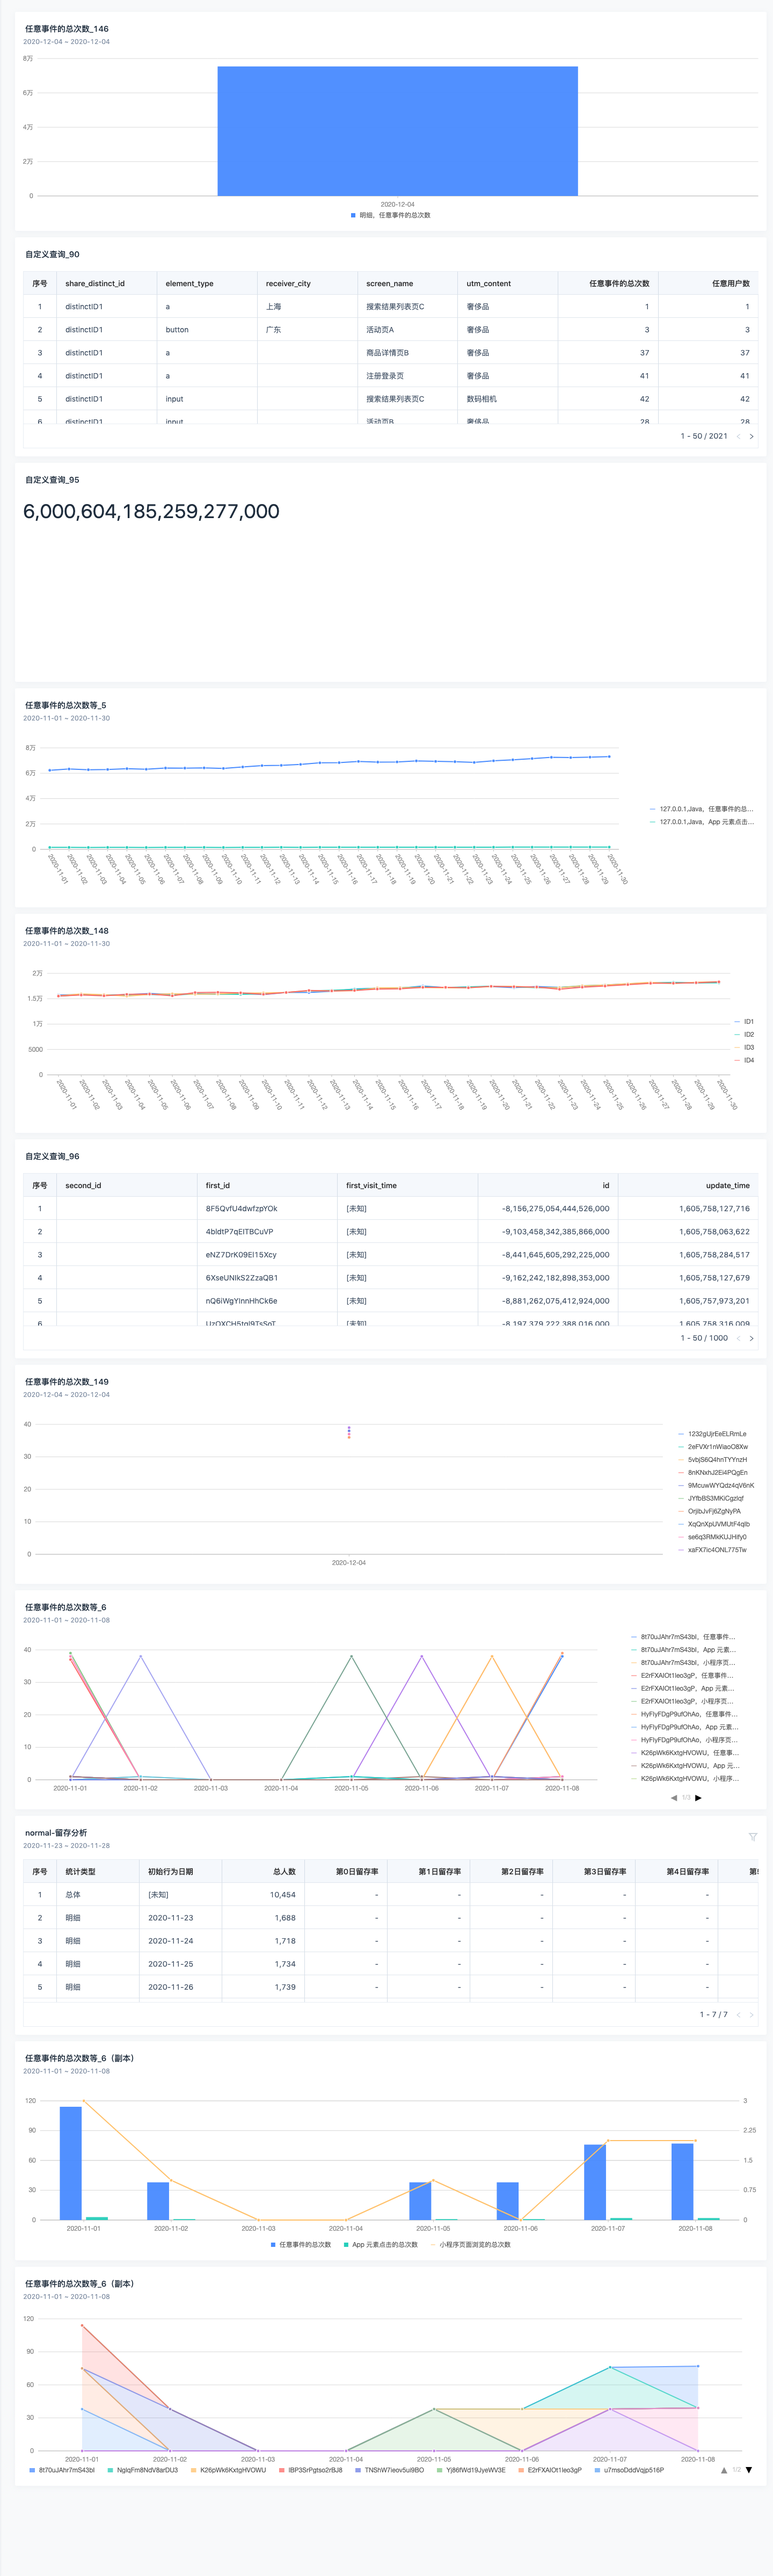
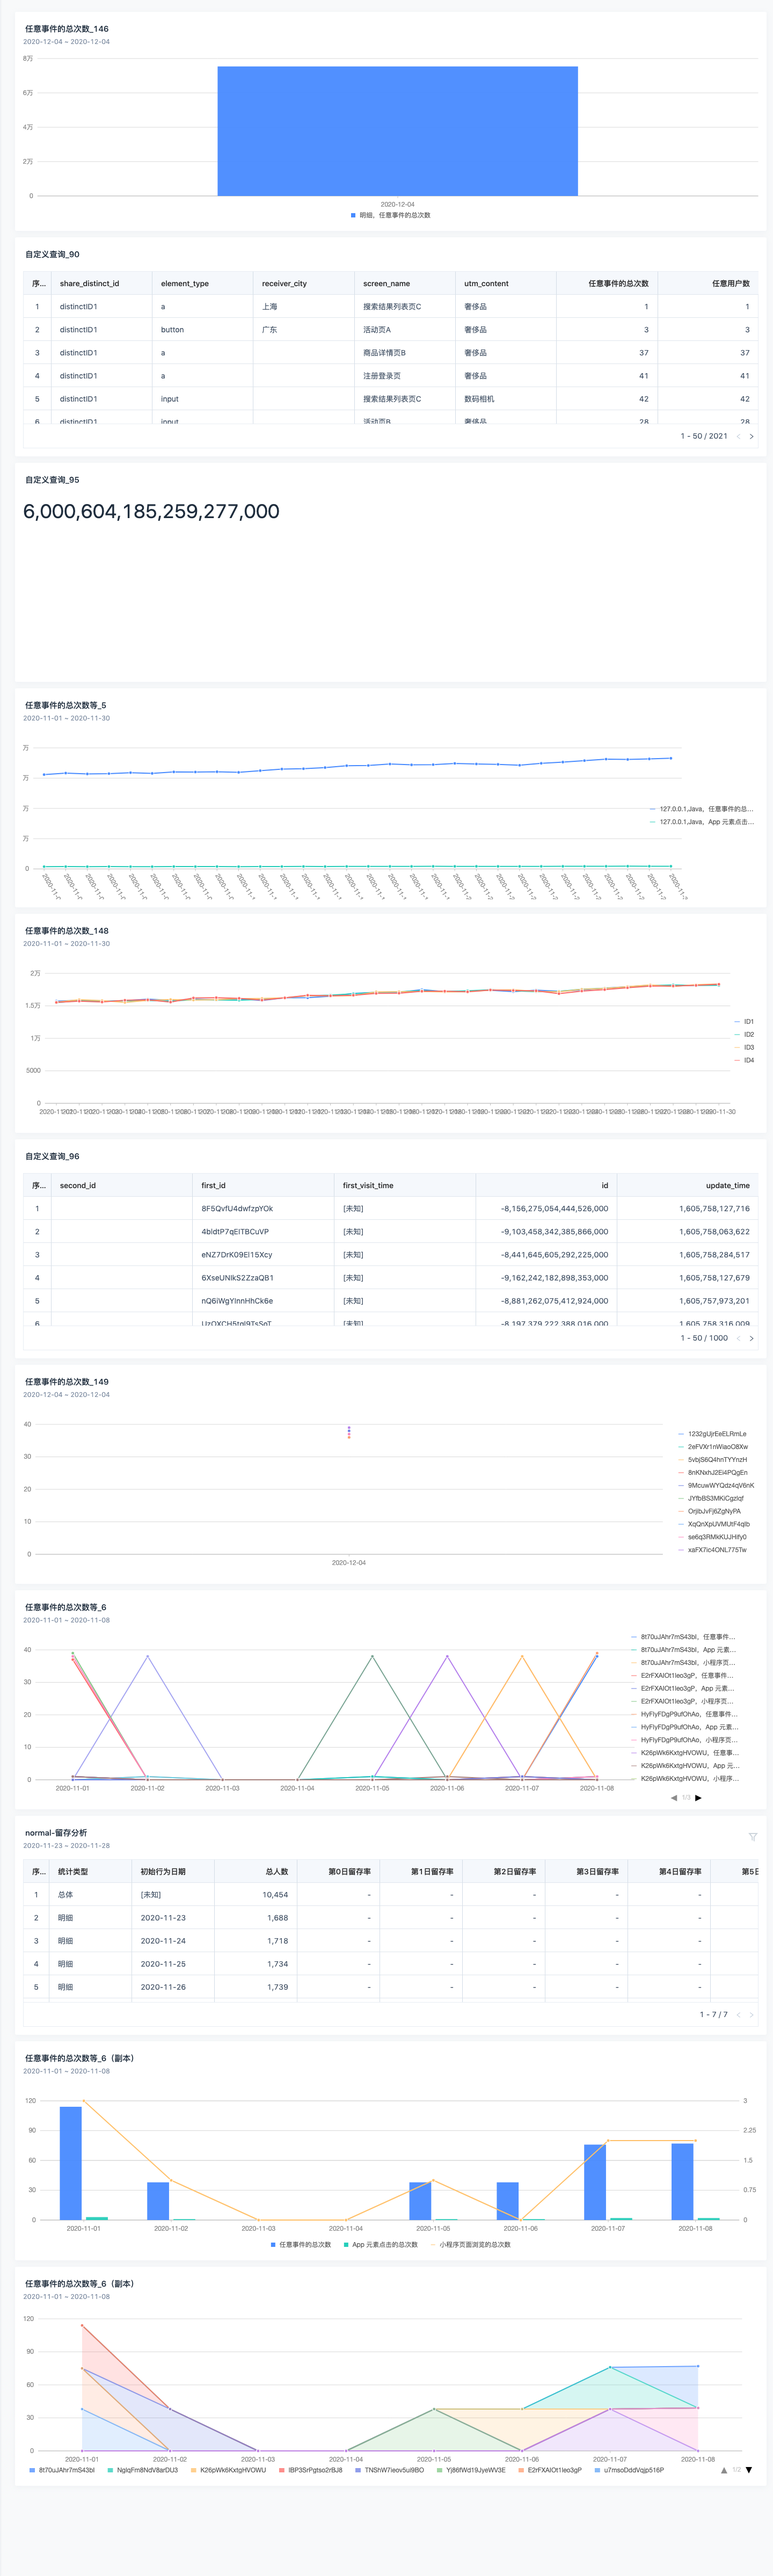
add

diff --git a/src/index.js b/src/index.js
@@ -1,6 +1,9 @@
 const puppeteer = require('puppeteer');
[1 lines of base64/hex data omitted]
 
+
+const sleep = time => new Promise(resolve => setTimeout(resolve, time))
+
 // 右边区域页面滚动到底，再截图
 async function autoScroll(page) {
   return page.evaluate(() => {
@@ -46,10 +49,10 @@ const run = async () => {
     timeout: 3000
   })
 
-  //  TODO  等待首屏加载完成 
-  await page.waitForSelector('.react-grid-layout')
+ await page.waitForSelector('.react-grid-layout')
   // 自动滚动触发懒加载
-  await autoScroll(page)
+  await autoScroll(page);
+  await sleep(2000);
 
   const dimensions = await page.evaluate(() => {
     const dom = document.querySelector('.index_canvas_1TQUT')
